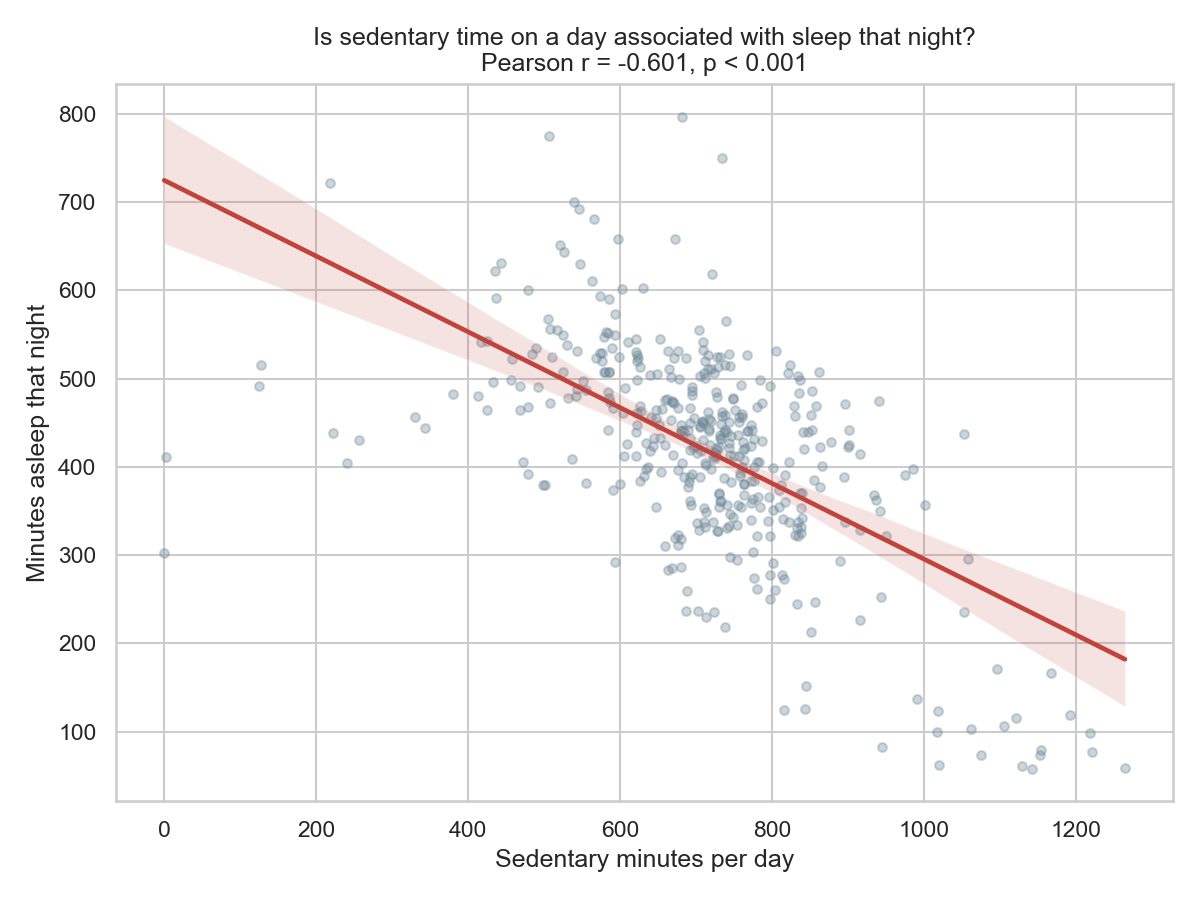
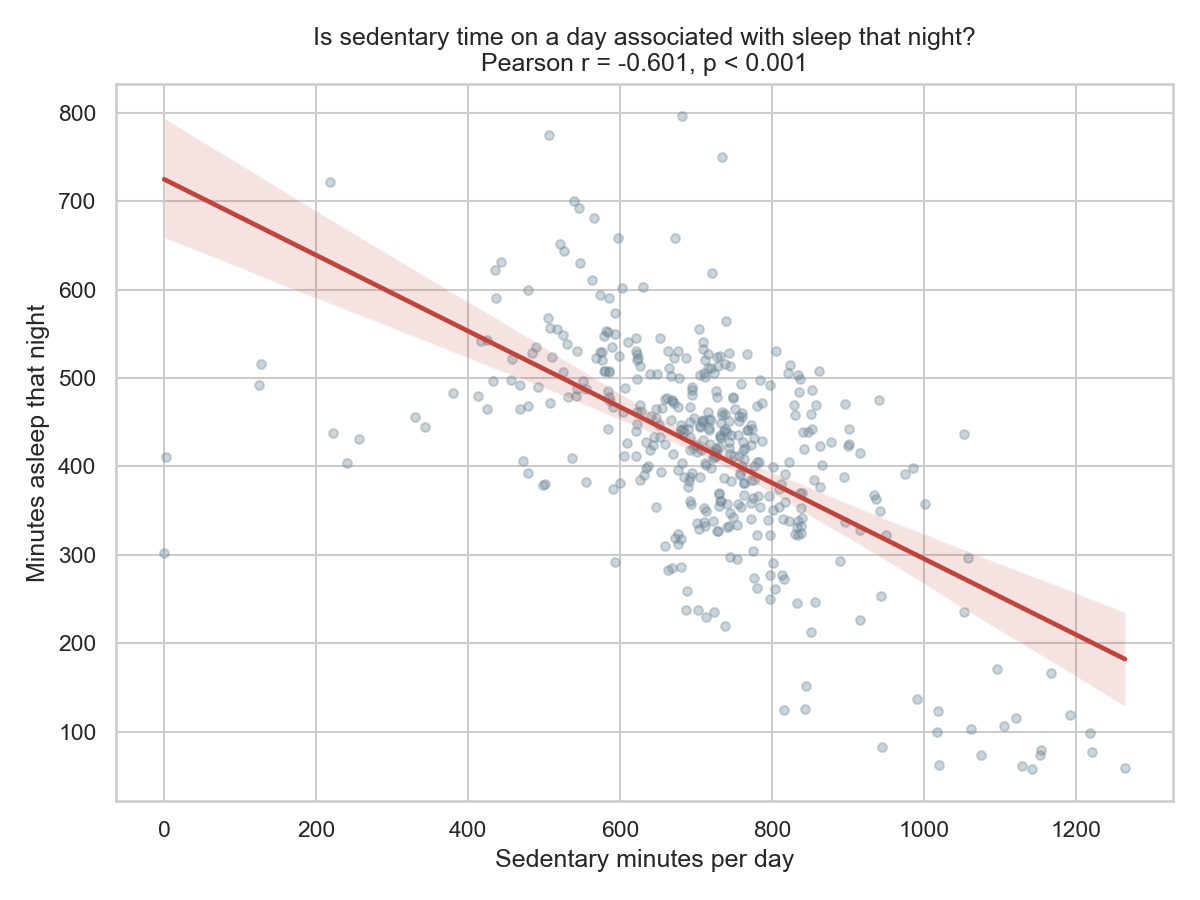
updated chart orientation

diff --git a/src/bellabeat/analysis.py b/src/bellabeat/analysis.py
@@ -13,6 +13,8 @@ import numpy as np
 import pandas as pd
 from scipy import stats
 
+from . import config
+
 
 def describe_numeric(df: pd.DataFrame, columns: list[str]) -> pd.DataFrame:
     """Mean, median, std, min, max, and key percentiles for a set of columns.
@@ -112,6 +114,24 @@ def device_usage_frequency(user_summary: pd.DataFrame) -> pd.DataFrame:
     result["usage_frequency_tier"] = pd.cut(
         result["device_usage_days"], bins=bins, labels=labels
     )
+    return result
+
+
+def activity_tier_distribution(df: pd.DataFrame) -> pd.DataFrame:
+    """Count and share of rows in each Tudor-Locke & Bassett (2004) step tier.
+
+    Works on either a day-level table (e.g. worn user-days, one row per
+    user-day) or a user-level table (e.g. user_summary, one row per user)
+    as long as it carries an `activity_tier` column built from
+    config.STEP_TIER_BINS/LABELS (see transform.add_activity_derived_fields
+    and transform.build_user_summary). The two granularities answer
+    different questions -- "how many days were sedentary?" vs. "how many
+    users are, on average, sedentary?" -- so are reported separately
+    rather than combined.
+    """
+    counts = df["activity_tier"].value_counts().reindex(config.STEP_TIER_LABELS, fill_value=0)
+    result = counts.rename("n").rename_axis("activity_tier").reset_index()
+    result["pct"] = round(100 * result["n"] / result["n"].sum(), 1)
     return result
 
 

diff --git a/src/bellabeat/visualization.py b/src/bellabeat/visualization.py
@@ -139,7 +139,7 @@ def plot_weekday_weekend_steps(weekday_profile: pd.DataFrame) -> Path:
     ax.set_title("Which days of the week show the highest activity?\nAverage steps by day of week")
     ax.set_xlabel("Day of week")
     ax.set_ylabel("Average total steps")
-    plt.setp(ax.get_xticklabels(), rotation=30, ha="right")
+    plt.setp(ax.get_xticklabels(), rotation=0, ha="center")
     return _save(fig, "weekday_weekend_steps.png")
 
 
@@ -155,6 +155,20 @@ def plot_hourly_activity_profile(hourly_profile: pd.DataFrame) -> Path:
     ax.set_xticks(range(0, 24, 2))
     ax.legend()
     return _save(fig, "hourly_activity_profile.png")
+
+
+def plot_activity_tier_distribution(tier_distribution: pd.DataFrame) -> Path:
+    labels = [label.replace(" (", "\n(") for label in tier_distribution["activity_tier"]]
+    fig, ax = plt.subplots(figsize=(10, 5))
+    ax.bar(labels, tier_distribution["pct"], color=PALETTE["primary"])
+    ax.set_title(
+        "How many user-days fall into each pedometer activity tier?\n"
+        "Tudor-Locke & Bassett (2004) step-count bands"
+    )
+    ax.set_xlabel("Activity tier (steps/day)")
+    ax.set_ylabel("Share of worn user-days (%)")
+    plt.setp(ax.get_xticklabels(), rotation=0, ha="center")
+    return _save(fig, "activity_tier_distribution.png")
 
 
 def plot_device_usage_frequency(user_summary: pd.DataFrame) -> Path:

diff --git a/scripts/run_pipeline.py b/scripts/run_pipeline.py
@@ -129,6 +129,12 @@ def main() -> None:
     usage_tiers = analysis.device_usage_frequency(user_summary)
     write_csv(usage_tiers, "device_usage_tiers", config.TABLES_DIR)
 
+    activity_tier_days = analysis.activity_tier_distribution(worn_days)
+    write_csv(activity_tier_days, "activity_tier_distribution_days", config.TABLES_DIR)
+
+    activity_tier_users = analysis.activity_tier_distribution(user_summary)
+    write_csv(activity_tier_users, "activity_tier_distribution_users", config.TABLES_DIR)
+
     hourly_profile = analysis.hourly_activity_profile(hourly_usage)
     write_csv(hourly_profile, "hourly_activity_profile", config.TABLES_DIR)
 
@@ -152,7 +158,8 @@ def main() -> None:
     visualization.plot_hourly_activity_profile(hourly_profile)
     visualization.plot_device_usage_frequency(user_summary)
     visualization.plot_user_segments(segmented_users)
-    logger.info("Wrote 9 figures to %s", config.FIGURES_DIR)
+    visualization.plot_activity_tier_distribution(activity_tier_days)
+    logger.info("Wrote 10 figures to %s", config.FIGURES_DIR)
 
     # Data quality report (auto-generated, feeds docs/data_quality_report.md)
     with open(config.TABLES_DIR / "data_quality_reports.json", "w") as f:

diff --git a/tests/test_analysis.py b/tests/test_analysis.py
@@ -51,6 +51,23 @@ class TestWeekdayWeekendTest:
         assert result["significant_at_0.05"] is True
 
 
+class TestActivityTierDistribution:
+    def test_counts_and_percentages_by_tier(self):
+        df = pd.DataFrame(
+            {
+                "activity_tier": pd.Categorical(
+                    ["Sedentary (<5,000)", "Sedentary (<5,000)", "Highly active (12,500+)", "Active (10,000-12,499)"],
+                    categories=analysis.config.STEP_TIER_LABELS,
+                )
+            }
+        )
+        result = analysis.activity_tier_distribution(df).set_index("activity_tier")
+        assert result.loc["Sedentary (<5,000)", "n"] == 2
+        assert result.loc["Sedentary (<5,000)", "pct"] == 50.0
+        assert result.loc["Low active (5,000-7,499)", "n"] == 0
+        assert result["n"].sum() == 4
+
+
 class TestDeviceUsageFrequency:
     def test_buckets_users_by_days_logged(self):
         df = pd.DataFrame({"Id": [1, 2, 3, 4], "device_usage_days": [5, 15, 25, 31]})

diff --git a/src/bellabeat/config.py b/src/bellabeat/config.py
@@ -63,9 +63,12 @@ RAW_FILES = {
 NON_WEAR_STEP_THRESHOLD = 0
 MINUTES_PER_DAY = 1440
 
-# CDC / WHO reference: 10,000 steps/day is a commonly cited public target,
-# though not a formal clinical guideline. Used here only to build
-# descriptive activity tiers, not as a medical claim.
+# Preliminary pedometer indices for healthy adults, from Tudor-Locke C,
+# Bassett DR Jr. "How many steps/day are enough? Preliminary pedometer
+# indices for public health." Sports Med. 2004;34(1):1-8. PMID 14715035.
+# The paper notes 10,000 steps/day is a popular media target rather than
+# an evidence-derived threshold, and proposes these five bands instead.
+# Used here only to build descriptive activity tiers, not as a medical claim.
 STEP_TIER_BINS = [-1, 5000, 7500, 10000, 12500, float("inf")]
 STEP_TIER_LABELS = [
     "Sedentary (<5,000)",

diff --git a/docs/analysis_findings.md b/docs/analysis_findings.md
@@ -24,6 +24,34 @@ Computed over the 868 worn user-days (72 flagged non-wear days excluded; see dat
 
 **Interpretation:** the average user in this sample logs steps below the commonly cited 10,000-steps/day public-health reference point (mean 8,272; median 7,969), and spends more than half of every logged day (954 of ~1,440 minutes, 66%) sedentary. Sedentary minutes exceed active minutes by roughly 4 to 1.
 
+### 1.1 Pedometer activity tiers (Tudor-Locke & Bassett, 2004)
+
+Tudor-Locke C, Bassett DR Jr. "How many steps/day are enough? Preliminary pedometer indices for public health." *Sports Medicine*, 2004;34(1):1-8 (PMID 14715035) proposes five step-count bands for healthy adults, arguing that the popular 10,000-steps/day target is a media-driven heuristic rather than an evidence-derived clinical threshold. These bands (`config.STEP_TIER_BINS`/`STEP_TIER_LABELS`) are applied at both the day level and the user level.
+
+**By worn user-day (n=868):**
+
+| Tier | Days | % |
+|---|---:|---:|
+| Sedentary (<5,000) | 231 | 26.6% |
+| Low active (5,000-7,499) | 171 | 19.7% |
+| Somewhat active (7,500-9,999) | 163 | 18.8% |
+| Active (10,000-12,499) | 159 | 18.3% |
+| Highly active (12,500+) | 144 | 16.6% |
+
+**By user, on their per-user average (n=33):**
+
+| Tier | Users | % |
+|---|---:|---:|
+| Sedentary (<5,000) | 7 | 21.2% |
+| Low active (5,000-7,499) | 9 | 27.3% |
+| Somewhat active (7,500-9,999) | 10 | 30.3% |
+| Active (10,000-12,499) | 4 | 12.1% |
+| Highly active (12,500+) | 3 | 9.1% |
+
+See `activity_tier_distribution.png`. **Observation:** the day-level and user-level views tell related but different stories. At the day level, roughly 1 in 4 worn days (26.6%) falls in the "sedentary" band, but the remaining days are fairly evenly spread across the other four tiers -- a day-to-day mix rather than a population split into "active" and "inactive" people. At the user level, per-user averages cluster more heavily in the middle three tiers (77.9% of users average "low active" through "somewhat active"), and only 21.2% of users average into the two tiers above 10,000 steps/day. This is more granular than the earlier 36%/64% low/high k-means split (Section 6): it shows that even users in the "high activity" segment are not, on average, hitting the "active" (10,000+) band -- their higher average is mostly driven by fewer sedentary days and more time in the low/somewhat-active range, not by routinely exceeding 10,000 steps.
+
+**Business interpretation:** per Tudor-Locke & Bassett, individualized, incremental step-count goals relative to a user's own baseline are likely more actionable for this population than a universal "hit 10,000" message, since fewer than a quarter of users are averaging into that band and pushing everyone toward a single fixed target risks feeling unattainable to the majority.
+
 ## 2. How much do users sleep? (descriptive statistics)
 
 Computed over 410 logged sleep-nights from 24 of 33 users (9 users never logged sleep in this export).
